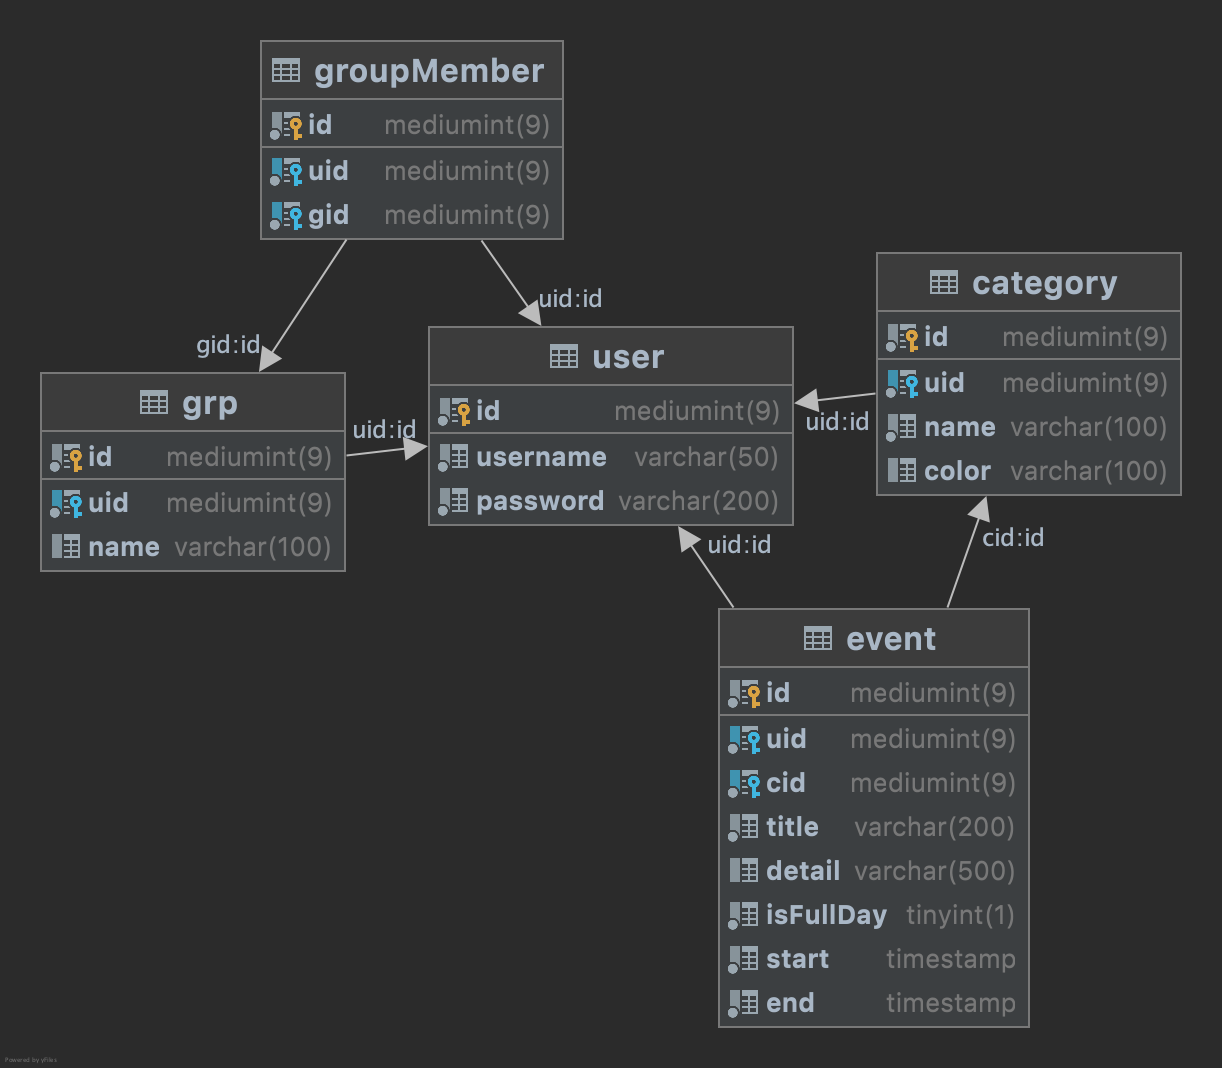
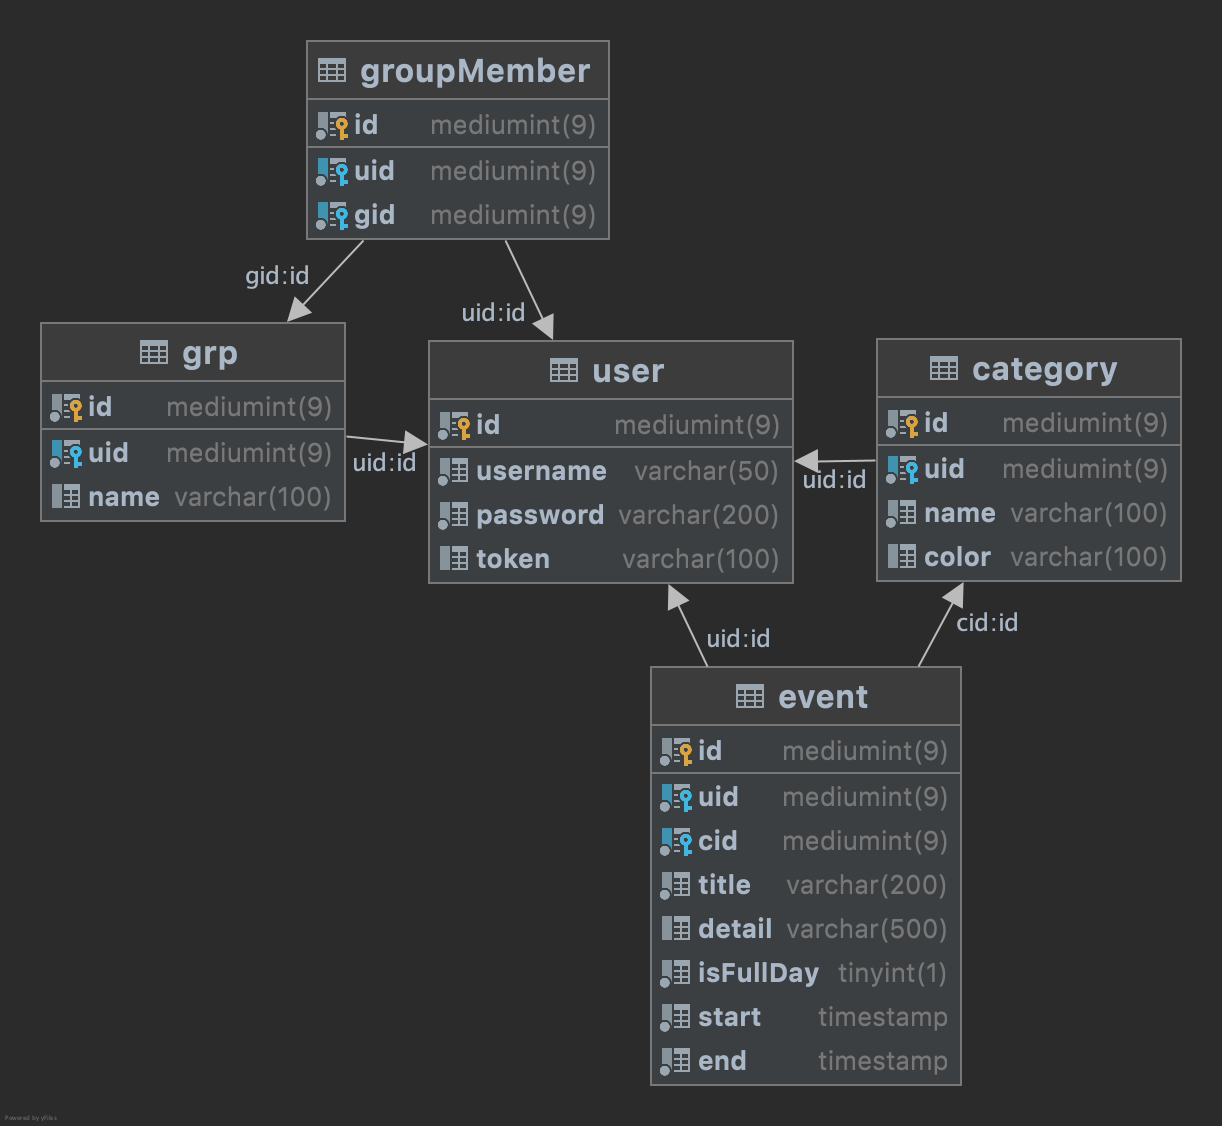
user apis

Changed region(s): [[0.0311, 0.0309, 0.964, 0.9888]]

diff --git a/api/model/User.php b/api/model/User.php
@@ -1,28 +1,30 @@
 <?php
 require dirname(__FILE__) . '/DB.php';
 class User{
-    private $id;
-    private $username;
-    private $pw;
+    public $id;
+    public $username;
+    public $pw;
+    public $token;
 
-    private function __construct($id, $username)
+    private function __construct($id, $username, $token)
     {
         $this->id = $id;
         $this->username = $username;
+        $this->token = $token;
     }
 
     public static function getUserById($id){
         global $conn;
-        $stmt = $conn->prepare("select id, username from user where id=?");
+        $stmt = $conn->prepare("select id, username, token from user where id=?");
         if(!$stmt){
             printf("Query Prep Failed: %s\n", $conn->error);
             exit;
         }
         $stmt->bind_param('i', $id);
         $stmt->execute();
-        $stmt->bind_result($id, $username);
+        $stmt->bind_result($id, $username, $token);
         if($stmt->fetch()){
-            $u = new static($id, $username);
+            $u = new static($id, $username, $token);
             $stmt->close();
             if($u->id==null) return null;
             return $u;
@@ -83,7 +85,41 @@ class User{
             if (!password_verify($inputPass, $password)){
                 return null;
             }
-            return new static($id, $username);
+            $u = new static($id, $username);
+            $u->updateToken();
+            return $u;
+        }
+        $stmt->close();
+        return null;
+    }
+
+    private function updateToken(){
+        global $conn;
+        $stmt = $conn->prepare("update user set token=? where id=?");
+        if (!$stmt) {
+            printf("Query Prep Failed: %s\n", $conn->error);
+            exit;
+        }
+        $token = bin2hex(random_bytes(32));
+        $stmt->bind_param('si', $token, $this->id);
+        if ($stmt->execute()) {
+            $stmt->close();
+            return true;
+        } else {
+            return false;
+        }
+    }
+
+    public static function isLogin($uid, $token){
+        global $conn;
+        $stmt = $conn->prepare("select username from user where id=? and token=?");
+        $stmt->bind_param('is', $uid, $token);
+        $stmt->execute();
+        $stmt->bind_result($username);
+        if($stmt->fetch()){
+            $stmt->close();
+            $u = new static($uid, $username, $token);
+            return $u;
         }
         $stmt->close();
         return null;

diff --git a/api/model/Event.php b/api/model/Event.php
@@ -1,16 +1,16 @@
 <?php
 require dirname(__FILE__) . '/DB.php';
 class Event{
-    private $id;
-    private $uid;
-    private $title;
-    private $detail;
-    private $location;
-    private $color;
-    private $isFullDay;
-    private $doRepeat;
-    private $start;
-    private $end;
+    public $id;
+    public $uid;
+    public $title;
+    public $detail;
+    public $location;
+    public $color;
+    public $isFullDay;
+    public $doRepeat;
+    public $start;
+    public $end;
 
     private function __construct()
     {

diff --git a/api/api/user/register.php b/api/api/user/register.php
@@ -5,9 +5,7 @@ require dirname(__FILE__) . '/../../model/User.php';
 if(isset($_POST["username"]) && isset($_POST["password"])){
     $u = User::register($_POST["username"], $_POST["password"]);
     if ($u){
-        $_SESSION["uid"] = $u->id;
-        $_SESSION["token"] = bin2hex(random_bytes(32));
-        reply_json(1, ["token"=>$_SESSION["token"]]);
+        reply_json(1, ["token"=>$u->token, "uid"=>$u->id, "username"=>$u->username]);
     } else {
         reply_json(-2);
     }

diff --git a/api/api/user/login.php b/api/api/user/login.php
@@ -5,9 +5,7 @@ require dirname(__FILE__) . '/../../model/User.php';
 if(isset($_POST["username"]) && isset($_POST["password"])){
     $u = User::login($_POST["username"], $_POST["password"]);
     if ($u){
-        $_SESSION["uid"] = $u->id;
-        $_SESSION["token"] = bin2hex(random_bytes(32));
-        reply_json(1, ["token"=>$_SESSION["token"]]);
+        reply_json(1, ["token"=>$u->token, "uid"=>$u->id, "username"=>$u->username]);
     } else {
         reply_json(-3);
     }

diff --git a/api/util/reply.php b/api/util/reply.php
@@ -7,9 +7,12 @@ $msgs = [
     -3 => "not exists"
 ];
 
-function reply_json($code=1, $data=[], $msg="success")
+function reply_json($code=1, $data=[], $msg=null)
 {
-    if (isset($msgs[$code]) && $msg == $msgs[$code]) $msg = $msgs[$code];
+    global $msgs;
+    if (isset($msgs[$code]) && $msg == null){ 
+        $msg = $msgs[$code];
+    }
     echo json_encode(["code"=>$code, "msg"=>$msg, "data"=>$data]);
 }
 ?>

diff --git a/api/api/user/require-login.php b/api/api/user/require-login.php
@@ -1,5 +1,14 @@
 <?php
-if(!isset($_SESSION["uid"])){
+require dirname(__FILE__) . '/../../model/User.php';
+
+if(!(isset($_POST["uid"]) && isset($_POST["token"]))){
     reply_json(0);
+    exit;
+} else {
+    $u = User::isLogin($_POST["uid"], $_POST["token"]);
+    if(!$u){
+        reply_json(0);
+        exit;
+    }
 }
 ?>

diff --git a/api/api/user/isLogin.php b/api/api/user/isLogin.php
@@ -1,0 +1,12 @@
+<?php
+require '../../model/User.php';
+
+if(isset($_POST["uid"]) && isset($_POST["token"])){
+    $u = User::isLogin($_POST["uid"], $_POST["token"]);
+    if($u){
+        reply_json(1, ["username"=>$u->username]);
+        exit;
+    }
+}
+reply_json(0,[],"not login")
+?>

diff --git a/api/api/event/getMonthlyEvents.php b/api/api/event/getMonthlyEvents.php
@@ -1,8 +1,10 @@
 <?php
 require dirname(__FILE__) . '/../../util/reply.php'; 
+require '../user/require-login.php';
 if(isset($_POST["beginTS"]) && isset($_POST["endTS"])){
     $beginTS = $_POST["beginTS"];
     $endTS = $_POST["endTS"];
+    
     
     
 

diff --git a/api/api/user/logout.php b/api/api/user/logout.php
@@ -1,4 +1,5 @@
 <?php
+require dirname(__FILE__) . '/../../util/reply.php'; 
 require 'require-login.php';
 session_unset();
 reply_json(1);
